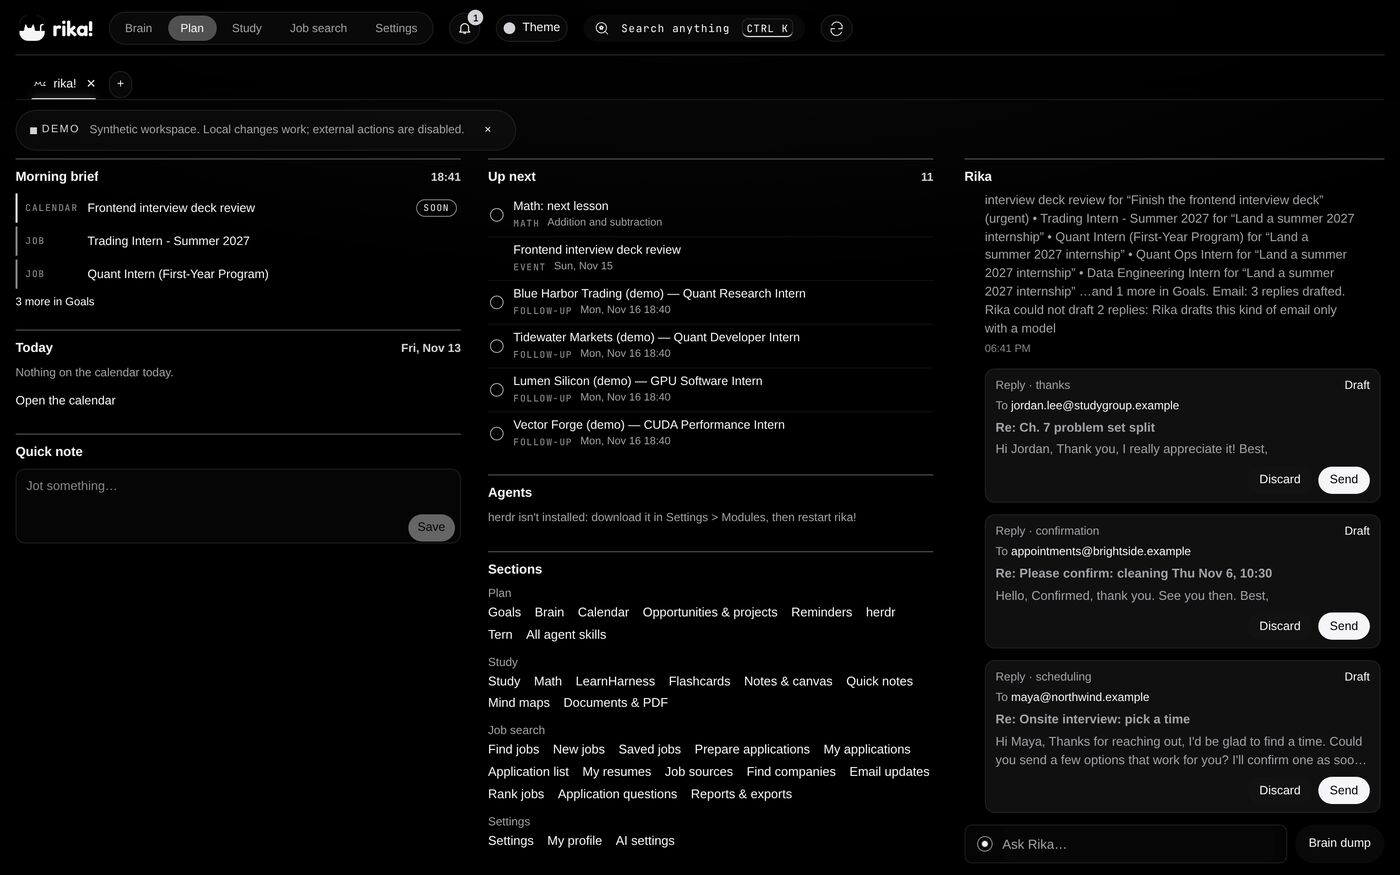
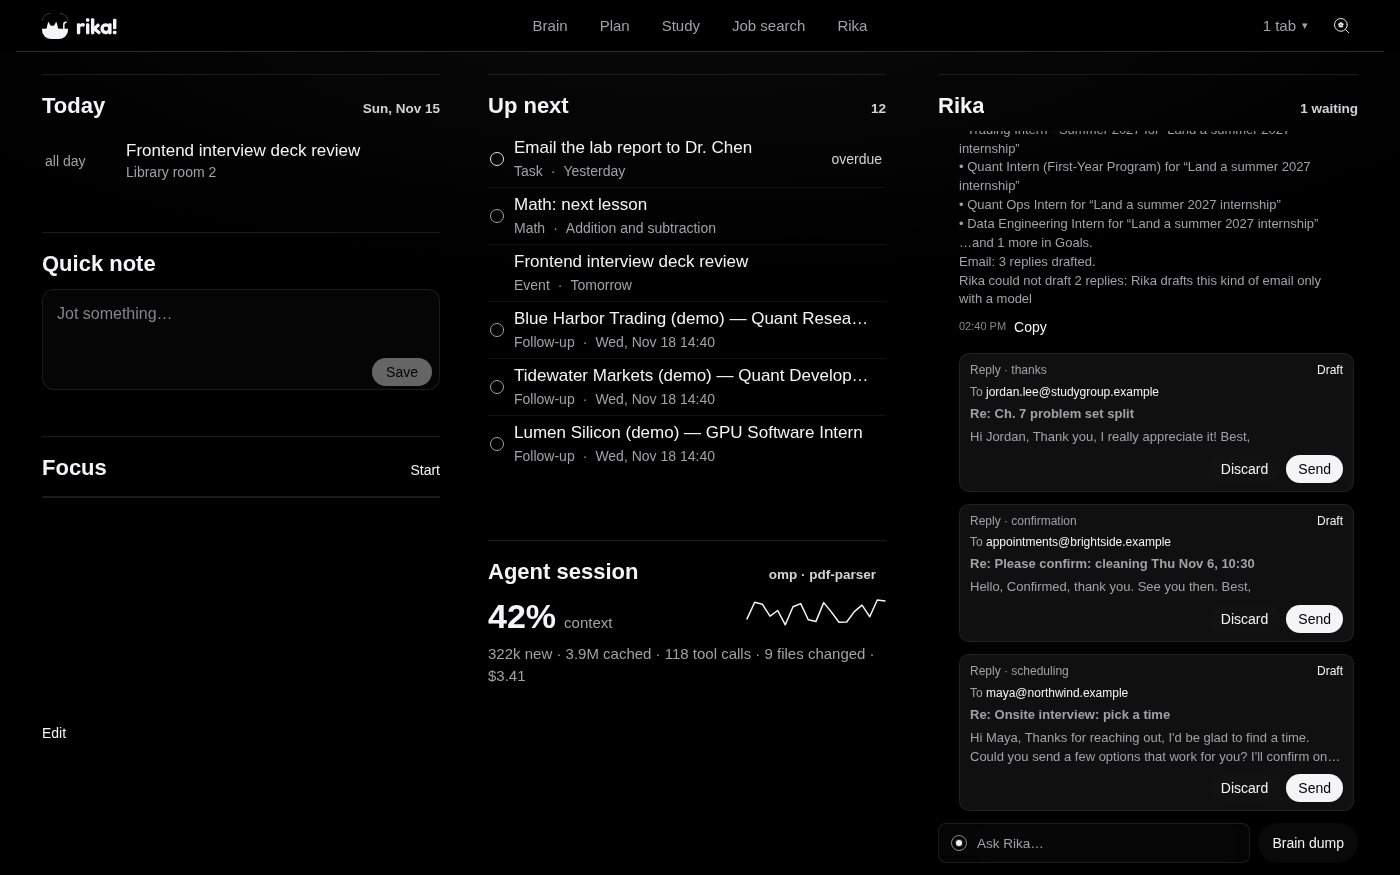
README for v0.3.40: the new home, calendar, Rika's page, edit mode with widgets, themes and animations

diff --git a/README.md b/README.md
@@ -19,9 +19,9 @@
 <p align="center"><b>A little less scattered. A lot more connected.</b></p>
 
 <p align="center">
-  <img src="docs/screenshots/home.jpg" width="100%" alt="The rika! home dashboard: a morning brief, today and a quick note on the left; up next, agents and every section in the middle; and the Rika panel on the right with drafted email replies and an Ask Rika box">
+  <img src="docs/screenshots/home.jpg" width="100%" alt="The rika! home dashboard on black: today, a quick note and a focus timer on the left; up next and an agent session in the middle; and the Rika panel on the right with three drafted replies waiting for Send.">
 </p>
-<p align="center"><sub>Home: what's next, everything you've got, and Rika on the right with your replies already drafted.</sub></p>
+<p align="center"><sub>Home: today, what's next, and Rika on the right with your replies already drafted.</sub></p>
 
 <br>
 
@@ -51,13 +51,44 @@ flat ground? Switch to the **2D** map.
 
 <img src="docs/screenshots/brain.jpg" width="100%" alt="The Brain view: a glowing neural-network brain threaded in red, orange, green and blue, above a legend counting applications, jobs, reminders, notes, calendar events and flashcards">
 
+### Give it somewhere to go
+
+Put the next step on your calendar: one quiet row of controls, a line for now,
+and the day you picked beside it.
+
+<img src="docs/screenshots/calendar.jpg" width="100%" alt="The calendar's week view: one header row with the range, Today, and Day, Week, Month, Agenda, Year and Plan; a hairline grid with soft colour-barred events, today's date in a filled circle and a line marking the time now.">
+
+### Someone to hand the loose ends to
+
+Rika reads what changed overnight and tells you in a few lines. She drafts the
+replies; **you** press Send. Her own page shows the coding agents working for you.
+
+<img src="docs/screenshots/rika.jpg" width="100%" alt="Rika's page: the conversation with three drafted email replies on the left, and on the right four coding agents with their task, context, tokens, cost and state.">
+
+### Your desk, not ours
+
+Press **Ctrl + Shift + Space** on any page. Drag a block where you want it, pull
+an edge to resize it, and open **Widgets** to drag in a clock, a quick note or
+your goals.
+
+<img src="docs/screenshots/edit.jpg" width="100%" alt="Edit mode on the Find jobs page: a clock and a quick note dragged onto the page, a dashed outline with a grip around the quick note, and a small bar at the bottom with Widgets, Remove widget, Reset page and Done.">
+
+### Black by default. Loud when you want it.
+
+rika! opens in **Black**: white type, hairlines, nothing glowing. Turn Themes on
+for seventeen more, and Animations if you want pages to turn instead of blink.
+
+<img src="docs/screenshots/kitty.jpg" width="100%" alt="The Kitty theme: the same home in heavy capitals and tube yellow over a green, grainy film still of a corridor, with the page's name running down the edge.">
+
 ### Only the parts you want
 
 Keep the workspace, add a terminal when you're building, turn on ApplyAI when
-you're looking for work, or download the Brain. Disabled modules disappear;
-their data stays.
+you're looking for work, or download the Brain, Themes and Animations. Disabled
+modules disappear; their data stays.
 
-<img src="docs/screenshots/modules.jpg" width="100%" alt="Settings › Modules: toggles for ApplyAI, Workspace, Terminal and Brain, with the Brain module marked Installed · 1.6 MB and a Remove button">
+<p align="center">
+  <img src="docs/screenshots/modules.jpg" width="72%" alt="Settings › Modules: switches for ApplyAI, Workspace, Math, LearnHarness, Terminal, Voice, Brain, Themes, Animations and Icons, each with one line saying what it does.">
+</p>
 
 <p align="center"><sub>Screenshots use a demo workspace with synthetic data.</sub></p>
 
